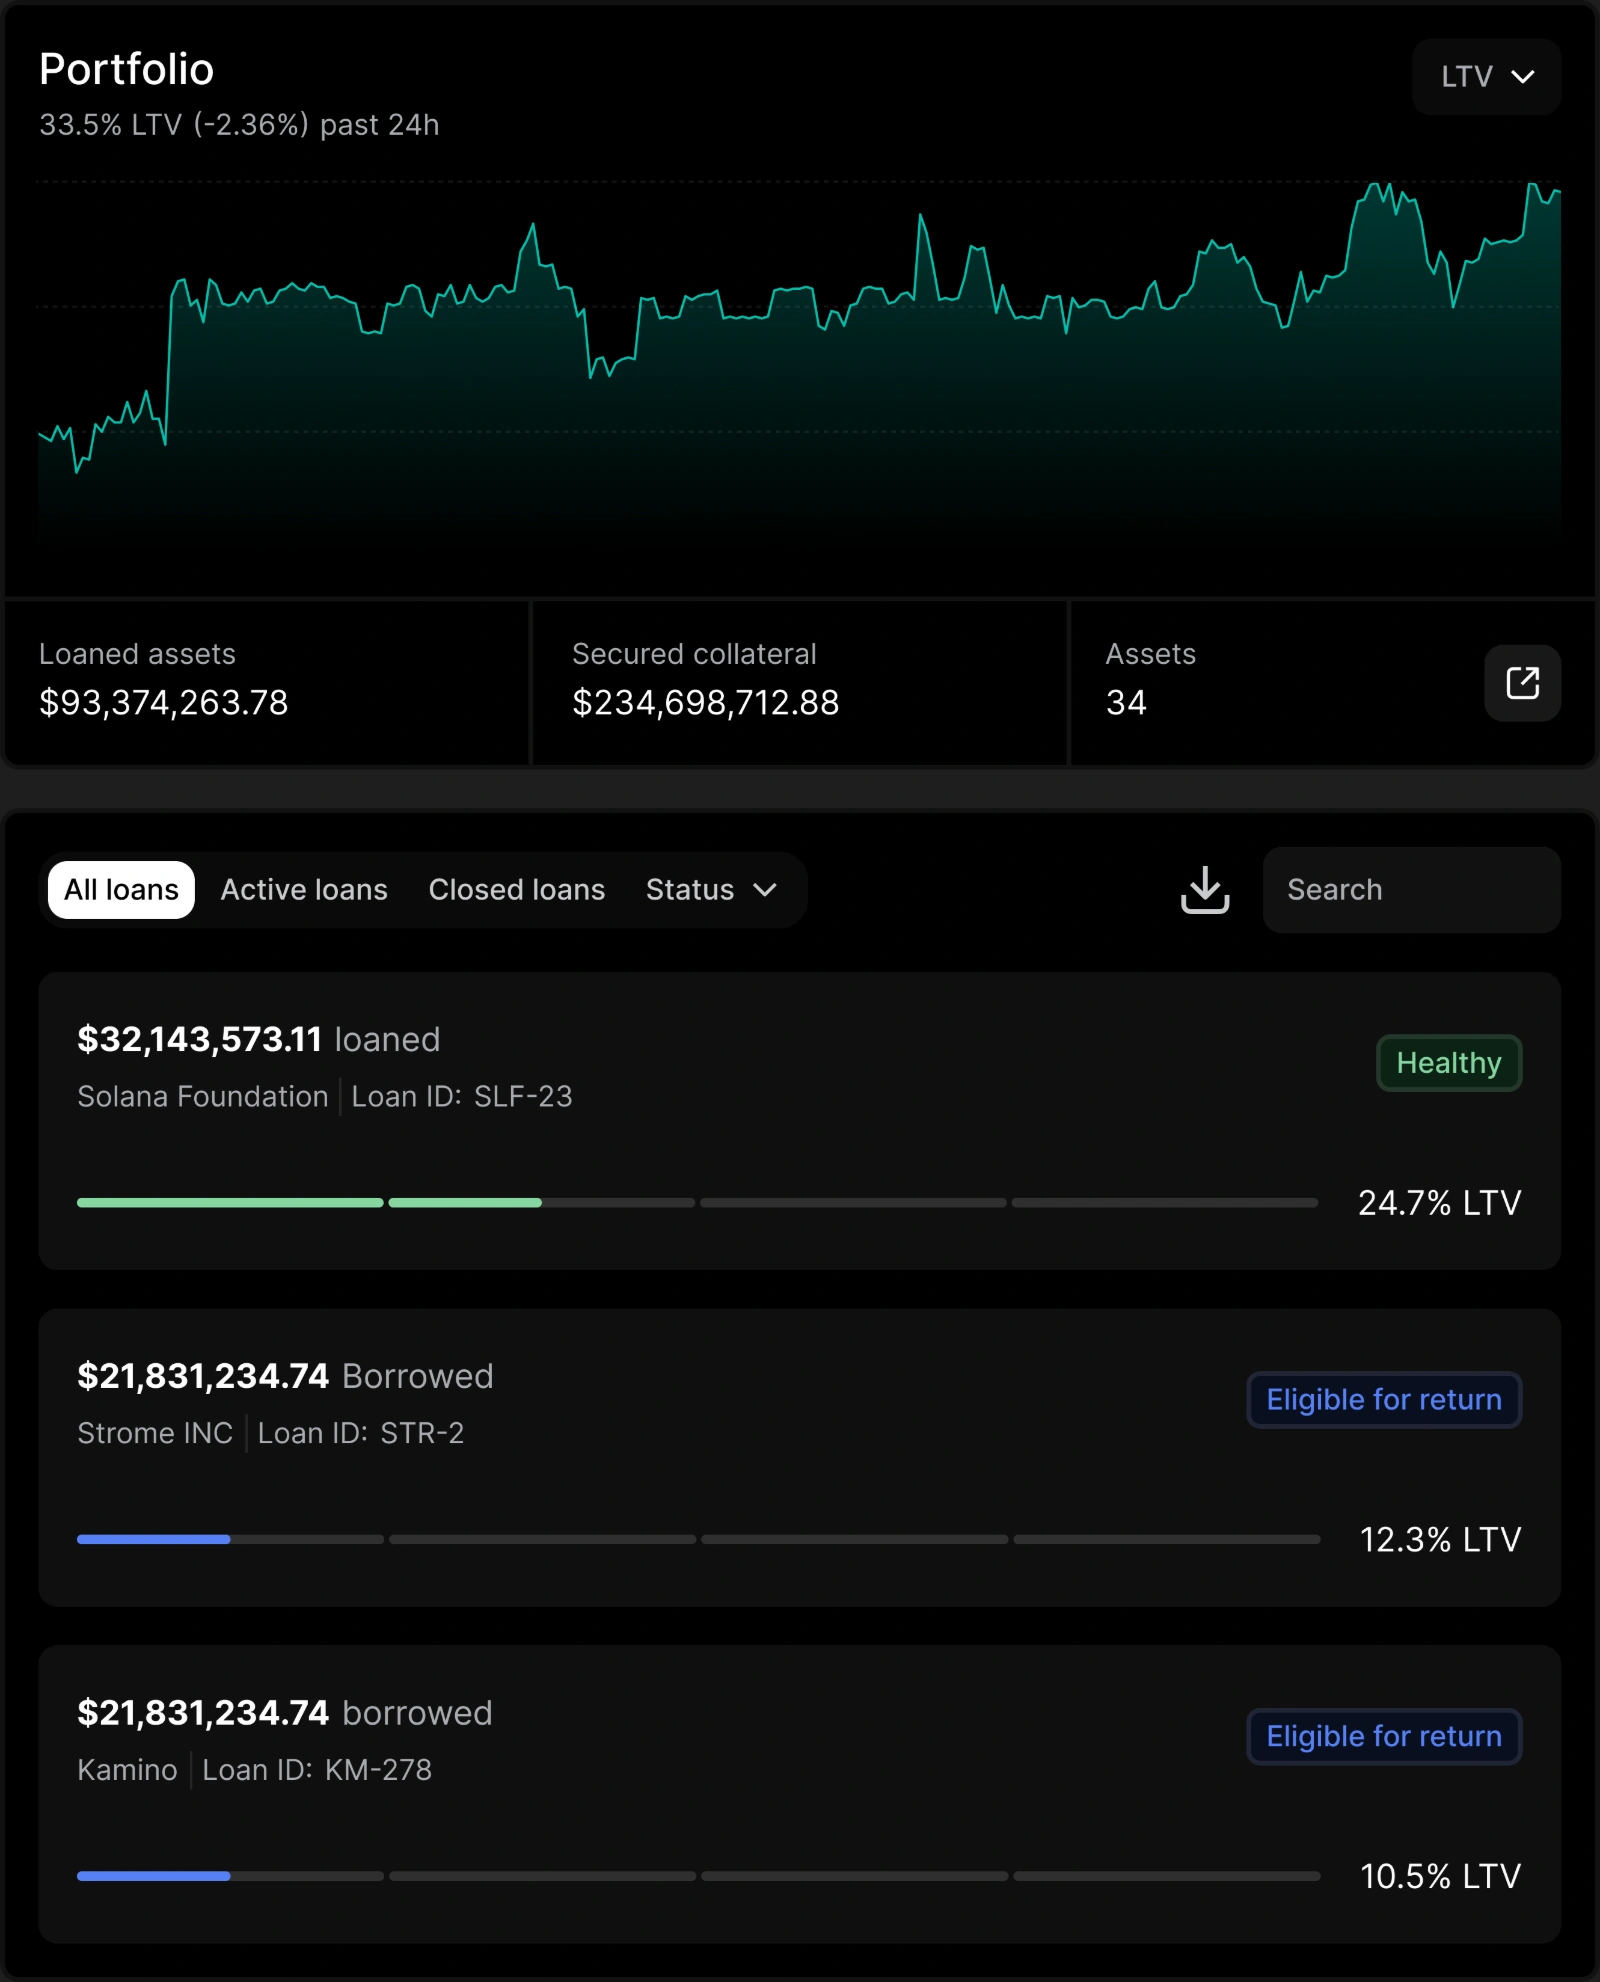
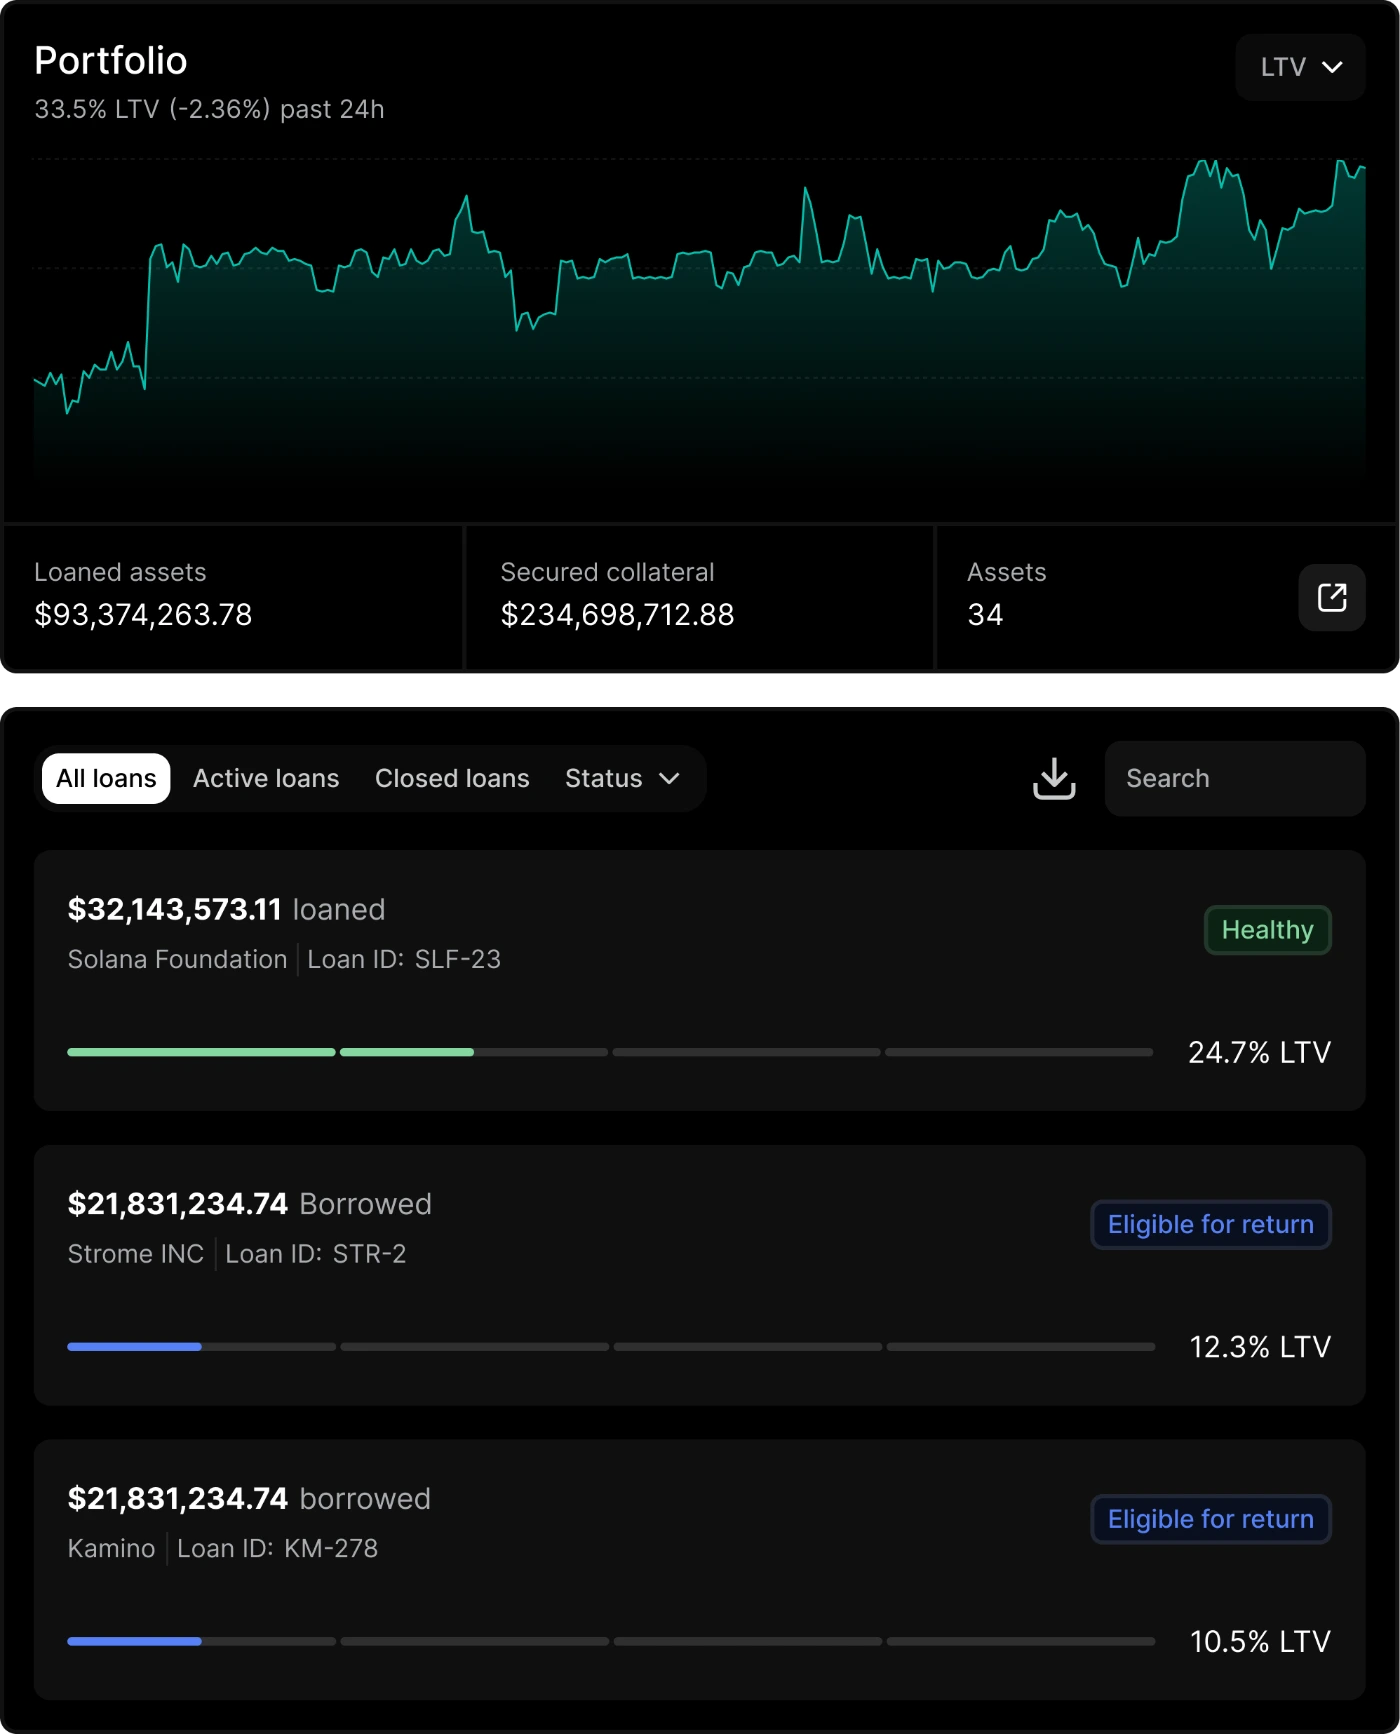
Collateral: transparent cut-out + poking-out card layout
Replaced the collateral hero with the transparent CM cut-out (from
Desktop). It has REAL alpha (2% transparent — outer bg, the gap between
the two panels, rounded corners), preserved as alpha-WebP: 81KB with
hasAlpha (vs 586KB PNG — WebP does support transparency; the earlier
'flat' look was just that the old opaque source had no alpha to keep).

Card layout per the CM wireframe (layout only, none of its styling): the
screen 'pokes out' — centered with side margins + a top gap, sized taller
than the (now taller, 384/209) frame so its bottom clips, panels floating
on the card surface via the transparency. Opt-in via a  data flag
+  — it needs a tall transparent cut-out, so
Escrow (still a landscape full-screen) keeps the clean cover layout until
it has its own cut-out. In the modal the cut-out fills full-bleed and its
transparent gaps reveal the modal bg.

Changed region(s): [[0.0, 0.3737, 1.0, 0.436], [0.9829, 0.9965, 1.0, 1.0], [0.0, 0.9965, 0.0307, 1.0]]

diff --git a/src/index.css b/src/index.css
@@ -401,14 +401,16 @@ a {
 }
 
 .card-media {
-  aspect-ratio: 384 / 176;
+  position: relative;
+  /* Taller frame than the old strip so more of the screen shows before it
+     clips (per the CM layout wireframe). */
+  aspect-ratio: 384 / 209;
   border-radius: var(--r-md);
   border: 1px solid var(--border);
   overflow: hidden;
   background:
     radial-gradient(120% 120% at 100% 0%, rgba(255, 255, 255, 0.05), transparent 55%),
     var(--bg-raised);
-  overflow: hidden;
 }
 
 /* Project image — fills the media box in both card and modal so it morphs. */
@@ -420,10 +422,24 @@ a {
   user-select: none;
 }
 
-/* Card thumbnails: the screen fills the frame edge-to-edge and is
-   TOP-aligned, so the crop always shows the top of the UI. */
+/* Default card thumb: the screen fills the frame, top-aligned. */
 .card-media .media-img {
   object-position: top center;
+}
+
+/* Cut-out cards "poke out": a transparent stacked screen sits centered with
+   side margins and a gap at top, sized taller than the frame so its bottom
+   clips — it reads as a screen peeking up into the card, its panels floating
+   on the card surface (per the CM wireframe). Opt-in via `is-cutout` because
+   it needs a tall transparent cut-out image, not a landscape screenshot. */
+.card-media.is-cutout .media-img {
+  position: absolute;
+  top: 9%;
+  left: 50%;
+  transform: translateX(-50%);
+  width: 82%;
+  height: auto;
+  object-fit: contain;
 }
 
 .card-body {

diff --git a/src/components/RecentlyShipped.jsx b/src/components/RecentlyShipped.jsx
@@ -30,7 +30,10 @@ export default function RecentlyShipped({ onOpen, activeId, closingId }) {
                 pointerEvents: isActive ? 'none' : 'auto',
               }}
             >
-              <motion.div className="card-media" layoutId={`media-${p.id}`}>
+              <motion.div
+                className={`card-media${p.cutout ? ' is-cutout' : ''}`}
+                layoutId={`media-${p.id}`}
+              >
                 {p.images?.[0] && (
                   <img
                     className="media-img"

diff --git a/src/data.js b/src/data.js
@@ -17,8 +17,9 @@ export const projects = [
     id: 'collateral',
     title: 'Collateral management',
     desc: 'Lending and borrowing of digital assets',
+    cutout: true,
     images: [
-      { src: colHero, w: 1600, h: 1982 },
+      { src: colHero, w: 1400, h: 1734 },
       { src: colDashboard, w: 2400, h: 1625 },
       { src: colLoanDetails, w: 2400, h: 1632 },
       { src: colLoanDetails2, w: 2400, h: 1632 },